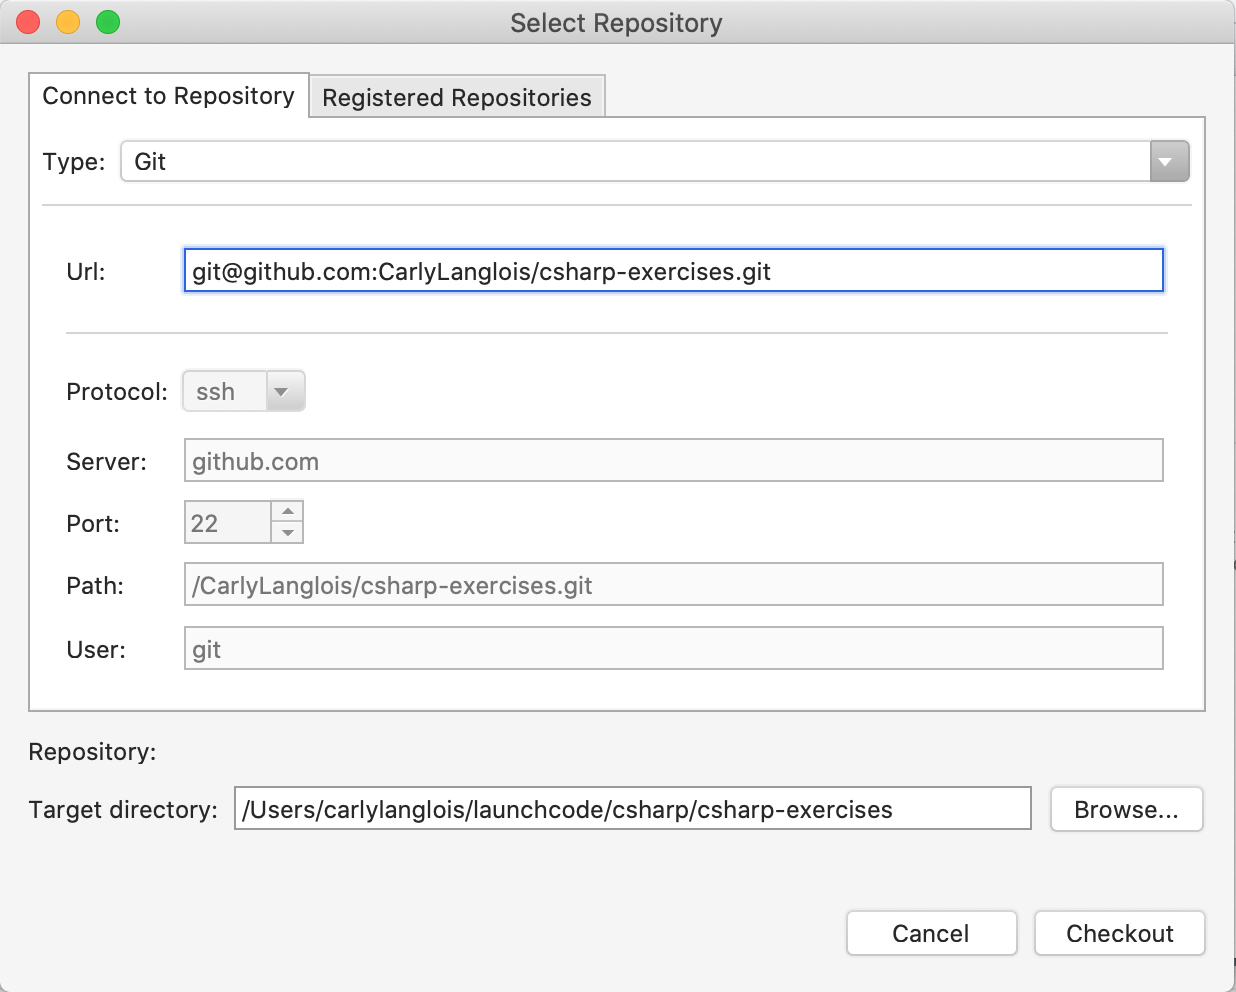
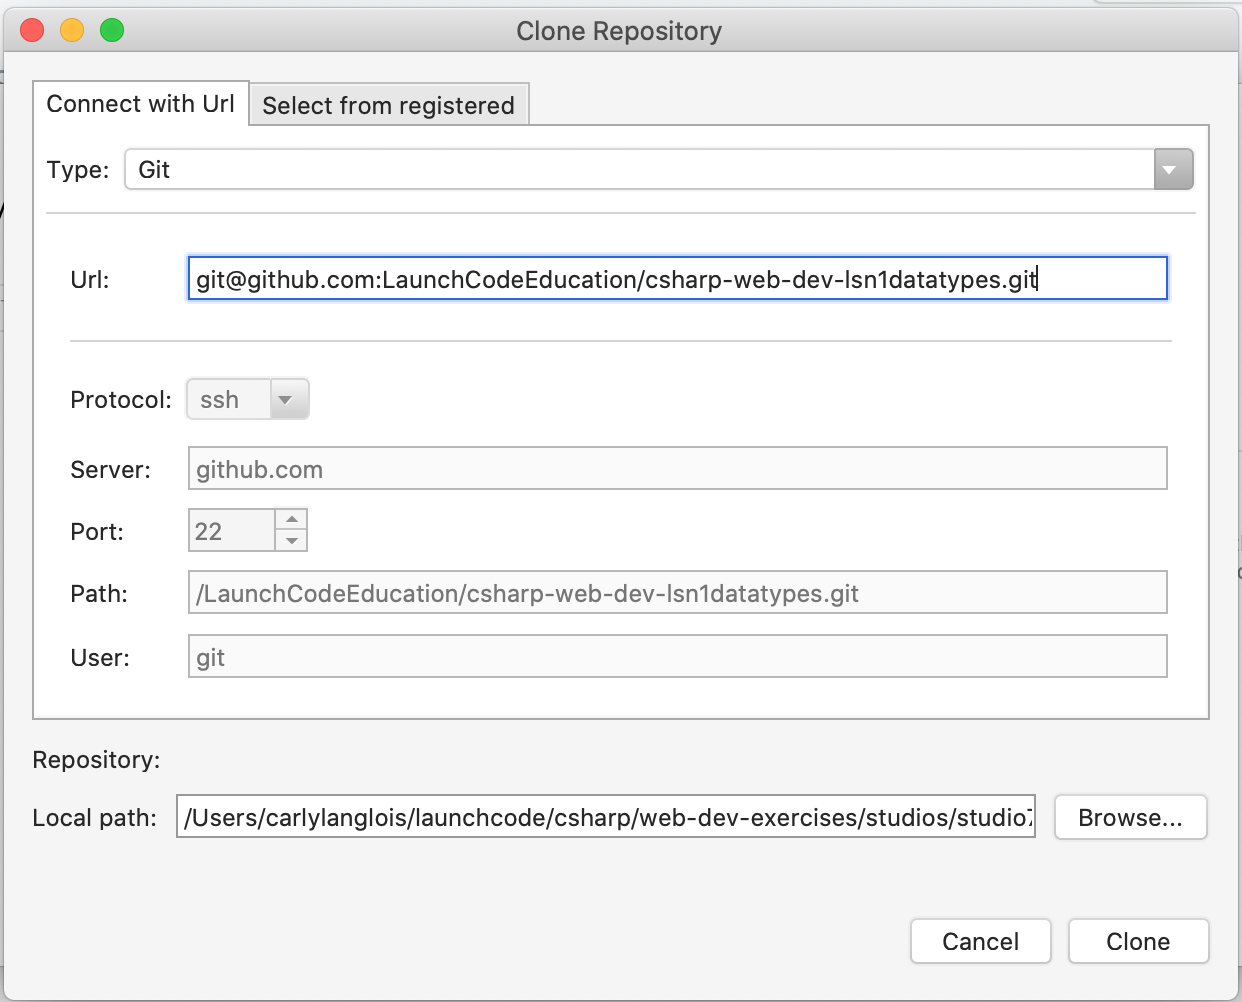
update vsmac cloning git repo instructions

diff --git a/src/chapters/introduction-and-setup/cloning-a-csharp-project.rst b/src/chapters/introduction-and-setup/cloning-a-csharp-project.rst
@@ -40,7 +40,7 @@ Windows Users
 Mac Users
 ---------
 
-#. With Visual Studio open, select *Version Control > Checkout* from the menu bar. 
+#. With Visual Studio open, select *Version Control > Clone Repository* from the menu bar. 
 
 #. This opens a window to connect to a remote repository. Copy the address for your forked exercises repository 
    and enter it into the *url* section of the form. The rest of the form fields will auto-populate:
